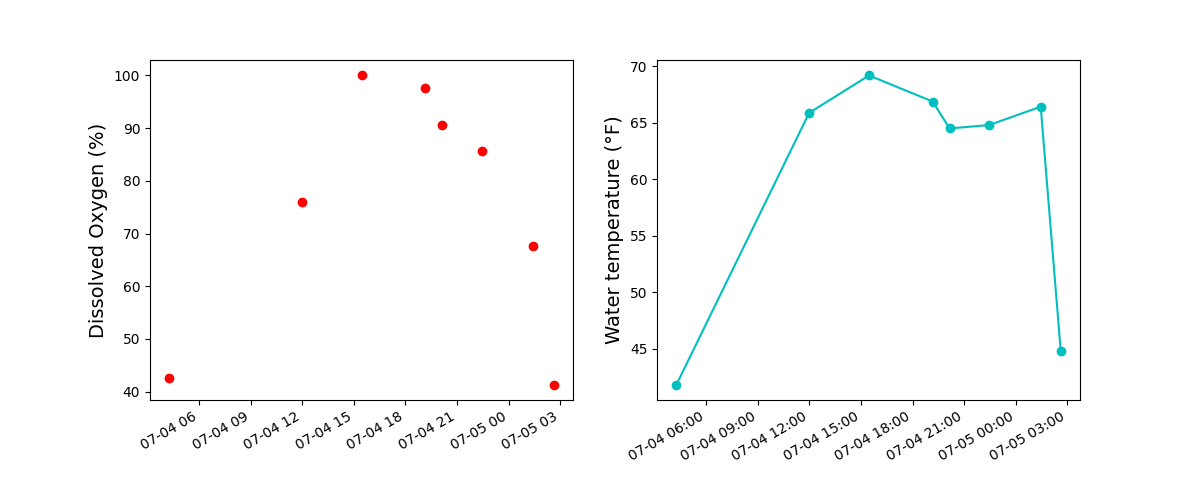
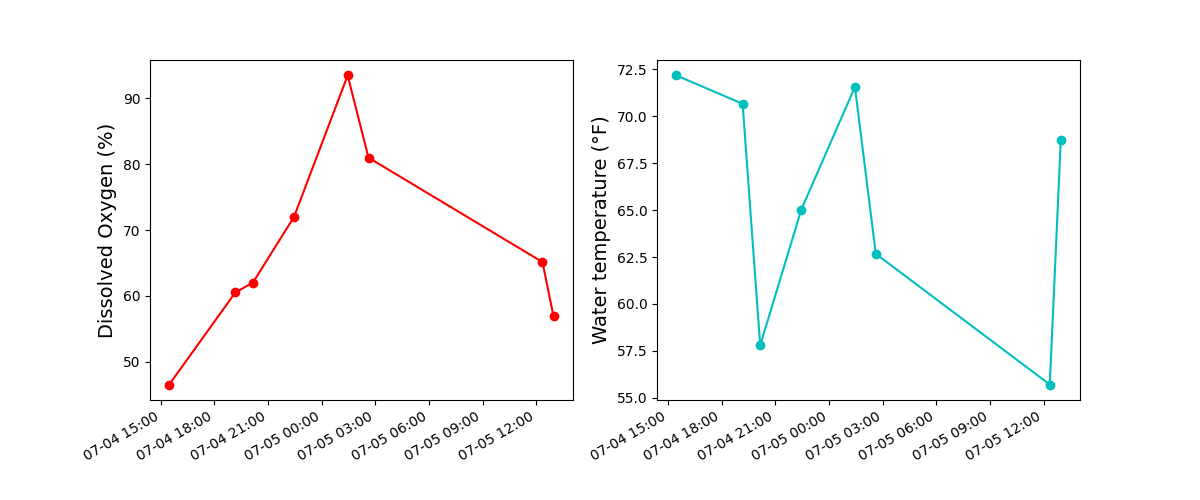
changed styling in home page

diff --git a/static/css/home.css b/static/css/home.css
@@ -1,38 +1,43 @@
 /*-------- home page content styling --------*/
-body{
+/* body{
     background-image: url('/static/images/background.png');
     background-repeat: no-repeat;
-    background-position: center 150px;
+    background-position: center 150px ;
     background-size: auto auto;
-}
+} */
 
 .title{
     width: 100%;
     position: absolute;
-    margin-top: 60px;
+    margin-top: 2%;
     text-align: center;
 }
 
 .title h1{
     font-family: 'Bebas Neue';
-    font-size: 100px;
-    letter-spacing: 5px;
+    font-size: 85px;
+    letter-spacing: 9px;
 }
 
 .title p{
     width: 75%;
     margin: auto;
-    margin-top: 30px;
-    font-size: 25px;
+    margin-top: 1%;
+    font-size: 20px;
     line-height: 40px;
     color: rgb(37, 65, 73); 
     text-size-adjust: auto;
     font-weight: 600;
 }
 
+.images img{
+    width: 20%;
+    padding: 2%;
+}
+
 @media(max-width: 700px) {
     .title h1{
-        margin: 0 2%;
+        margin: 3% 2%;
         font-size: 50px;
         line-height: 60px;
     }
@@ -40,6 +45,13 @@ body{
     .title p{
         font-size: 18px;
         line-height: 30px;
+        width: 80%;
+        margin-top: 2%;
+    }
+
+    .images img{
+        margin-top: 2%;
+        width: 30%;
     }
 }
 

diff --git a/templates/home.html b/templates/home.html
@@ -10,8 +10,16 @@
 {% block body %}
 
 <div class="title">
-  <h1>IMTA Biomass Data<br>Visualization Platform</h1>
-  <p>This application is a cutting-edge web application meticulously engineered to streamline the presentation and analysis of biomass data collected from various biomass sensors. Whether you're a scientist, researcher, or a biomass industry professional, it offers an intuitive and user-friendly interface to simplify the display of all your biomass data.</p>
+  <h1>Aquaculture Data<br>Visualization Platform</h1>
+  <p>This application is meticulously engineered to streamline the presentation and analysis of biomass and DO data collected from various sensors. Whether you're a scientist, researcher, or a biomass industry professional, it offers an intuitive and user-friendly interface to simplify the display of all your data.</p>
+
+  <div class="images">
+    <a href="/biomass"><img src="static/images/aquaculture_tank.jpg"></a>
+    <a href="/HAUCS"><img src="static/images/aquaculture_pond.jpg"></a>
+  </div>
 </div>
+
+
+
 
 {% endblock %}

diff --git a/templates/tanks_analytics.html b/templates/tanks_analytics.html
@@ -23,7 +23,7 @@
     <div class="data_summary">
         <h1>Data Summary</h1>
         <li>Sensor Battery Voltage: {{last_battv}} V</li>
-        <li>Last time of data collection: {{last_dt}} EST</li>
+        <li>Last time of data collection: {{last_time}} on {{last_date}}</li>
       </div>
 
     <div class = "graph">

diff --git a/static/css/sensors.css b/static/css/sensors.css
@@ -38,13 +38,13 @@ body{
     font-size: 20px;
 }
 
-.data_summary div{
+/* .data_summary div{
     width: 250px;
     padding: 10px;
     background: white;
     border-radius: 20px;
     text-align: center;
-}
+} */
 
 .graph{
     position: relative;

diff --git a/templates/biomass.html b/templates/biomass.html
@@ -22,7 +22,7 @@
 {% block body %}
 
 <section class="content">
-    <h1>Map of Tanks</h1>
+    <h1>Recirculating Aquaculture</h1>
     <p>Click on a tank to see the corresponding data:</p>
     
 </section>

diff --git a/templates/HAUCS.html b/templates/HAUCS.html
@@ -22,7 +22,7 @@
 {% block body %}
 
 <section class="content">
-    <h1>Map of Ponds</h1>
+    <h1>Pond Aquaculture</h1>
     <p>Click on a pond to see the corresponding data:</p>
     
 </section>

diff --git a/firebase.py b/firebase.py
@@ -74,6 +74,7 @@ class bmass_sensor():
         self.off = np.array([int(data['data'][i][0]) for i in data['data']])
         self.g = np.array([int(data['data'][i][2]) for i in data['data']])
         self.battv = np.array([float(data['status'][i]['batt_v']) for i in data['status']])
+        self.v = (self.on - self.off)/1024
         self.id = int(name)
 
     def plot_timeseries(self, mv):
@@ -81,13 +82,15 @@ class bmass_sensor():
         date_fmt = '%m-%d %H:%M'
         # Use DateFormatter to set the data to the correct format.
         date_formatter = mdates.DateFormatter(date_fmt, tz=(pytz.timezone("US/Eastern")))
-        lower = self.d_dt[-1] - timedelta(days=7)
+        lower = self.d_dt[-1-mv] - timedelta(days=7)
+        upper = self.d_dt[-1-mv]
 
-        window = self.d_dt > lower
+        window = (self.d_dt > lower) & (self.d_dt < upper)
+        v = moving_average(self.v, mv)[window]
 
         plt.figure()
-        plt.plot(self.d_dt[window], moving_average(self.on[window] - self.off[window], mv), color='c')
-        plt.ylabel("Sensor On - Off", fontsize=14)
+        plt.plot(self.d_dt[window], v, color='c')
+        plt.ylabel("Sensor Voltage (V)", fontsize=14)
         plt.gcf().autofmt_xdate()
         plt.gca().xaxis.set_major_formatter(date_formatter)
         plt.savefig("static/graphs/biomass/"+ str(self.id) + "_bmass_diff.png")
@@ -130,15 +133,20 @@ class pond():
         lower = self.d_dt[-1] - timedelta(hours=24)
 
         window = self.d_dt > lower
+        data_pts = np.count_nonzero(window)
 
+        if data_pts < mv:
+            mv=data_pts
+        
         plt.figure(figsize=(12,5))
         plt.subplot(1,2,1)
-        plt.plot(self.d_dt[window], moving_average(self.do[window], mv), 'o-', color='r')
+        plt.plot(self.d_dt[window],moving_average(self.do[window],mv), 'o-',color='r')
+        # plt.scatter(self.d_dt[window],self.do[window], color='r')
         plt.ylabel('Dissolved Oxygen (%)', fontsize=14)
         plt.gcf().autofmt_xdate()
         plt.gca().xaxis.set_major_formatter(date_formatter)
         plt.subplot(1,2,2)
-        plt.plot(self.d_dt[window], moving_average(self.temp[window], mv), 'o-',color= 'c')
+        plt.plot(self.d_dt[window], self.temp[window], 'o-',color= 'c')
         plt.ylabel("Water temperature (°F)", fontsize=14)
         plt.gcf().autofmt_xdate()
         plt.gca().xaxis.set_major_formatter(date_formatter)

diff --git a/app.py b/app.py
@@ -83,8 +83,10 @@ def show_sensor(sensor_id):
     bmx = firebase.bmass_sensor(sensor_id, 600)
     last_battv = bmx.battv[-1]
     last_dt = bmx.d_dt[-1]
+    str_date = last_dt.strftime('%A, %B %d')
+    str_time = last_dt.strftime('%I:%M %p')
     bmx.plot_timeseries(mv=10)
-    return render_template('tanks_analytics.html', sensor_id=sensor_id, last_battv=last_battv, last_dt=last_dt)
+    return render_template('tanks_analytics.html', sensor_id=sensor_id, last_date=str_date, last_time = str_time, last_battv=last_battv, last_dt=last_dt)
 
 @app.route('/pond'+'<int:pond_id>')
 def show_pond(pond_id):
